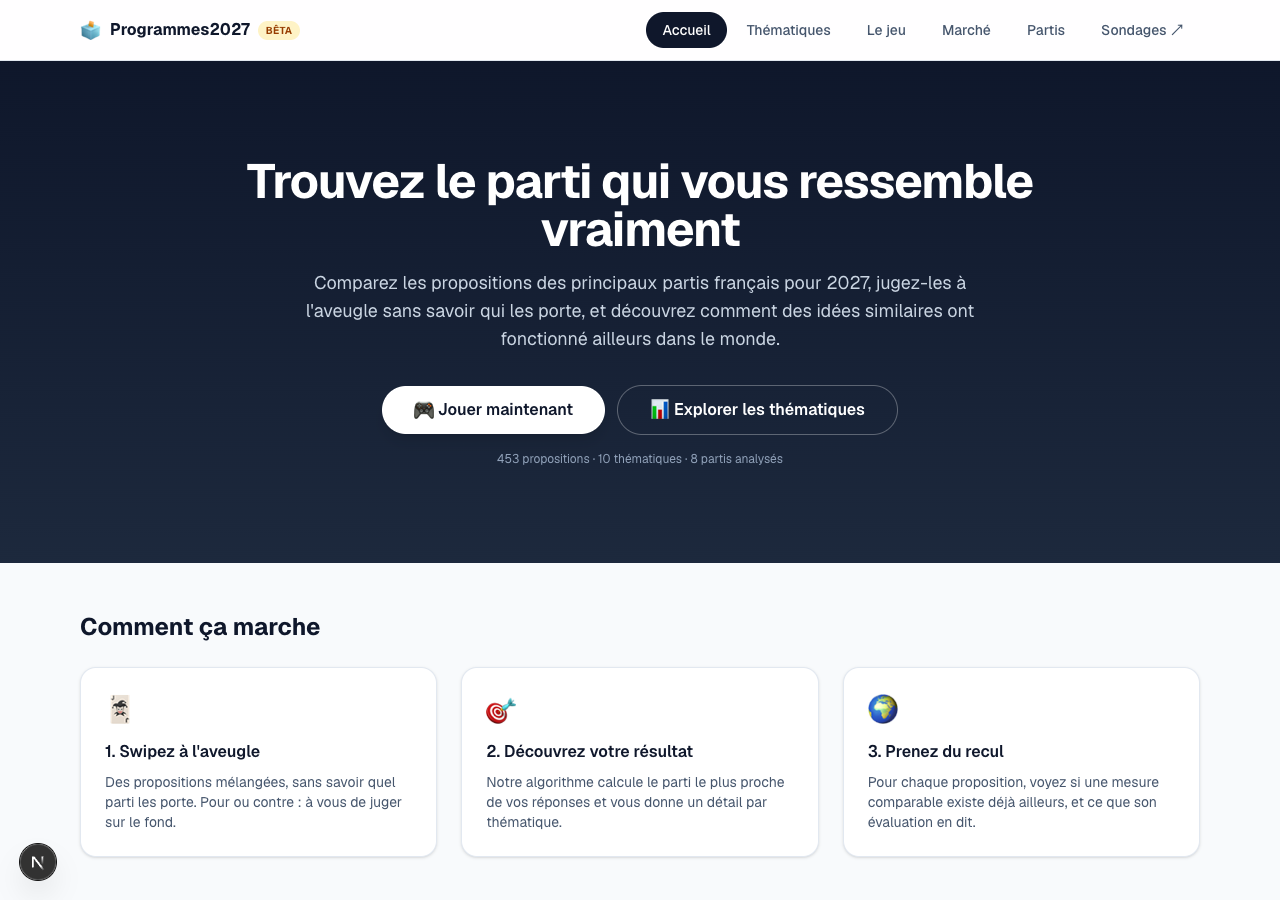
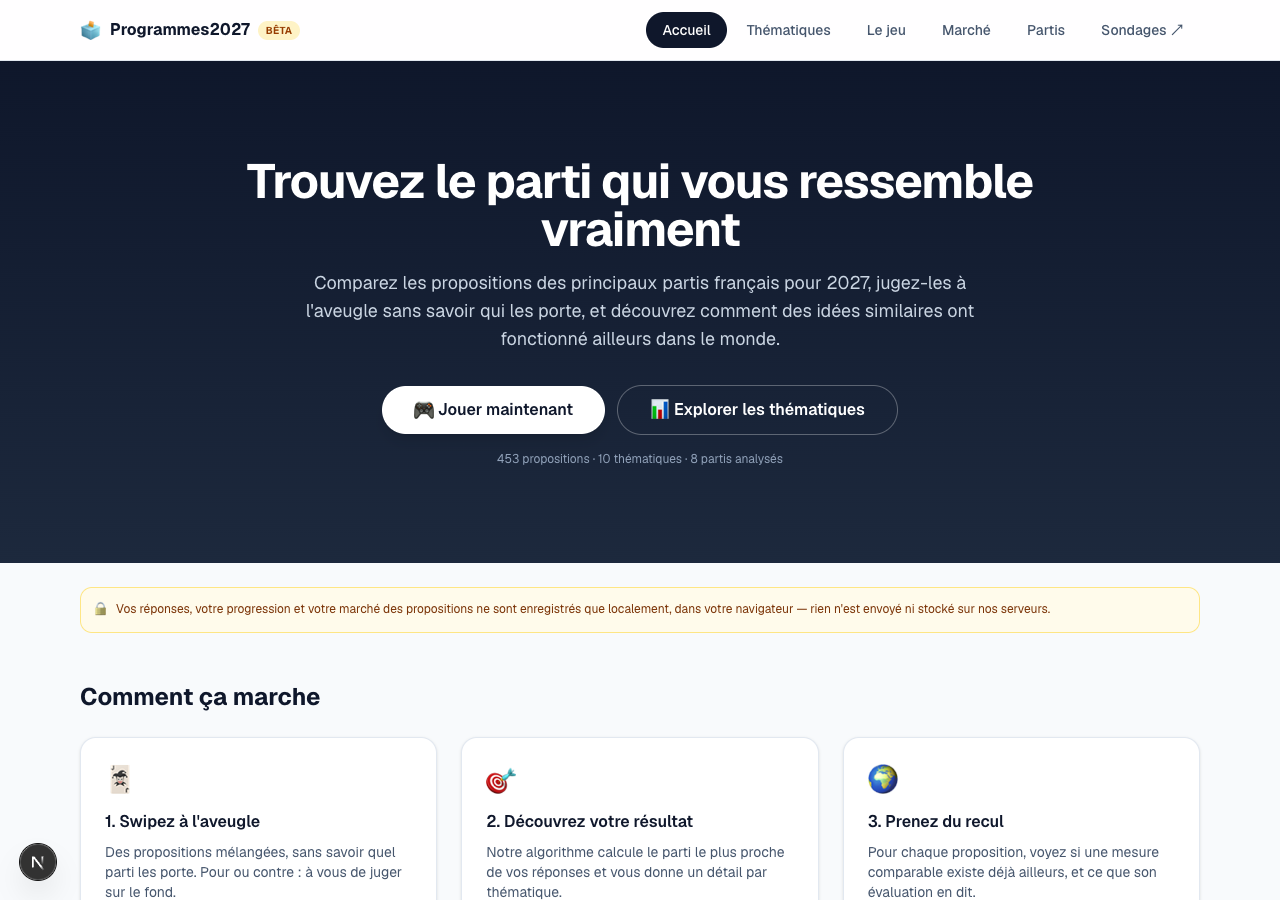
Improve game mode selector layout and add local-storage privacy notice
- Widen and better space the 3 game mode cards (complet/équilibré/
  égalitaire) on desktop, which were cramped into a narrow column.
- Add a note below the mode selector clarifying that a result is
  already available after 15 answers and that finishing the deck only
  refines it, to reassure players intimidated by the total proposition
  count.
- Add a banner on the homepage reminding visitors that all their data
  (quiz answers, market basket) stays only in their browser's local
  storage and is never sent to or stored on our servers.

diff --git a/src/components/SwipeGame.tsx b/src/components/SwipeGame.tsx
@@ -236,8 +236,8 @@ function DeckModeSelector({ onSelect }: { onSelect: (mode: DeckMode) => void }) 
   );
 
   return (
-    <div className="mx-auto flex w-full max-w-xl flex-1 flex-col items-center justify-center gap-6 px-4 py-10 text-center">
-      <div>
+    <div className="mx-auto flex w-full max-w-5xl flex-1 flex-col items-center justify-center gap-6 px-4 py-10 text-center">
+      <div className="max-w-2xl">
         <h1 className="text-2xl font-bold text-slate-900">Choisissez votre partie</h1>
         <p className="mt-2 text-sm text-slate-600">
           Les partis n&apos;ont pas tous le même nombre de propositions
@@ -252,7 +252,7 @@ function DeckModeSelector({ onSelect }: { onSelect: (mode: DeckMode) => void }) 
       <div className="grid w-full gap-4 sm:grid-cols-3">
         <button
           onClick={() => onSelect("complet")}
-          className="flex flex-col gap-2 rounded-2xl border-2 border-slate-200 bg-white p-5 text-left shadow-sm transition hover:border-slate-400"
+          className="flex flex-col gap-2 rounded-2xl border-2 border-slate-200 bg-white p-6 text-left shadow-sm transition hover:border-slate-400"
         >
           <span className="text-lg font-bold text-slate-900">🗂 Jeu complet</span>
           <span className="text-sm text-slate-600">
@@ -263,7 +263,7 @@ function DeckModeSelector({ onSelect }: { onSelect: (mode: DeckMode) => void }) 
         </button>
         <button
           onClick={() => onSelect("equilibre")}
-          className="flex flex-col gap-2 rounded-2xl border-2 border-slate-200 bg-white p-5 text-left shadow-sm transition hover:border-slate-400"
+          className="flex flex-col gap-2 rounded-2xl border-2 border-slate-200 bg-white p-6 text-left shadow-sm transition hover:border-slate-400"
         >
           <span className="text-lg font-bold text-slate-900">⚖ Jeu équilibré</span>
           <span className="text-sm text-slate-600">
@@ -275,7 +275,7 @@ function DeckModeSelector({ onSelect }: { onSelect: (mode: DeckMode) => void }) 
         </button>
         <button
           onClick={() => onSelect("egalitaire")}
-          className="flex flex-col gap-2 rounded-2xl border-2 border-slate-200 bg-white p-5 text-left shadow-sm transition hover:border-slate-400"
+          className="flex flex-col gap-2 rounded-2xl border-2 border-slate-200 bg-white p-6 text-left shadow-sm transition hover:border-slate-400"
         >
           <span className="text-lg font-bold text-slate-900">🟰 Jeu égalitaire</span>
           <span className="text-sm text-slate-600">
@@ -286,6 +286,12 @@ function DeckModeSelector({ onSelect }: { onSelect: (mode: DeckMode) => void }) 
           </span>
         </button>
       </div>
+
+      <p className="max-w-2xl text-xs text-slate-500">
+        💡 Pas besoin de tout finir : dès {MIN_ANSWERS_FOR_EARLY_RESULTS}{" "}
+        réponses, vous pouvez déjà voir vos résultats. Continuer le quiz
+        ne fait ensuite que les affiner.
+      </p>
     </div>
   );
 }

diff --git a/src/app/page.tsx b/src/app/page.tsx
@@ -37,6 +37,17 @@ export default function Home() {
         </div>
       </section>
 
+      <section className="mx-auto w-full max-w-6xl px-4 pt-6">
+        <p className="flex items-start gap-2 rounded-xl border border-amber-200 bg-amber-50 p-3 text-xs leading-relaxed text-amber-900">
+          <span aria-hidden>🔒</span>
+          <span>
+            Vos réponses, votre progression et votre marché des propositions
+            ne sont enregistrés que localement, dans votre navigateur — rien
+            n&apos;est envoyé ni stocké sur nos serveurs.
+          </span>
+        </p>
+      </section>
+
       <section className="mx-auto w-full max-w-6xl px-4 py-12">
         <h2 className="text-2xl font-bold text-slate-900">Comment ça marche</h2>
         <div className="mt-6 grid gap-6 sm:grid-cols-3">
